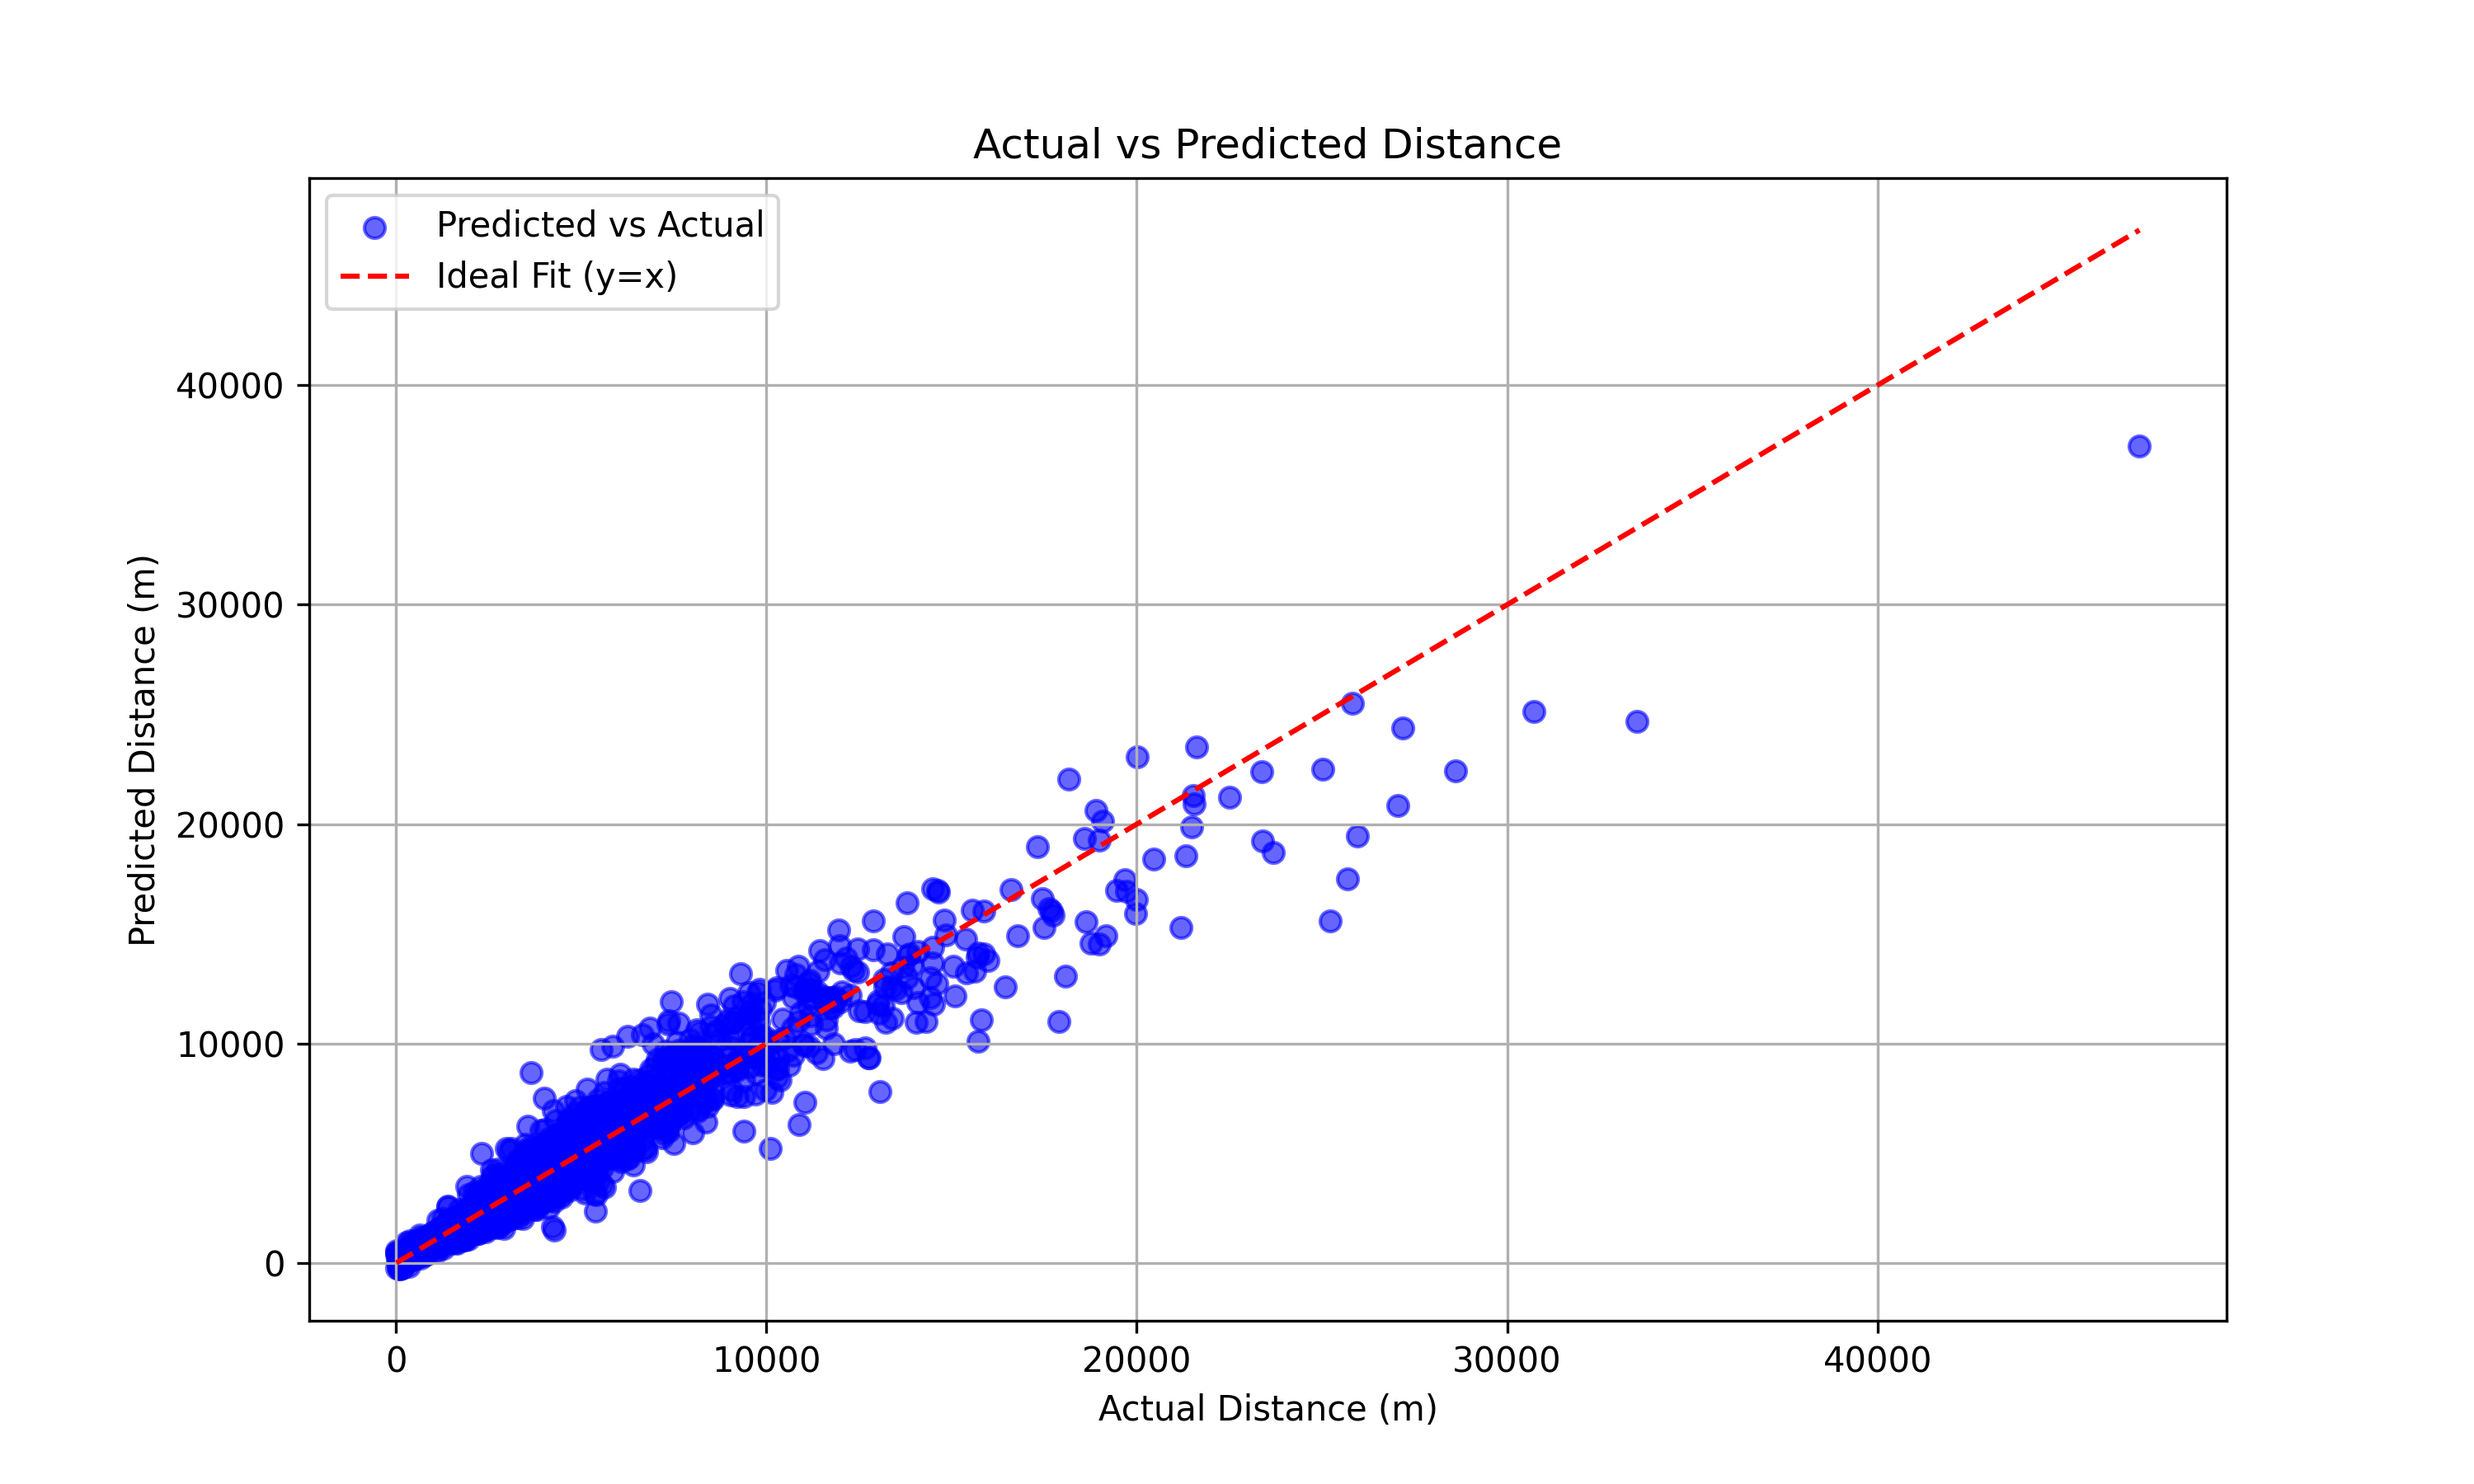
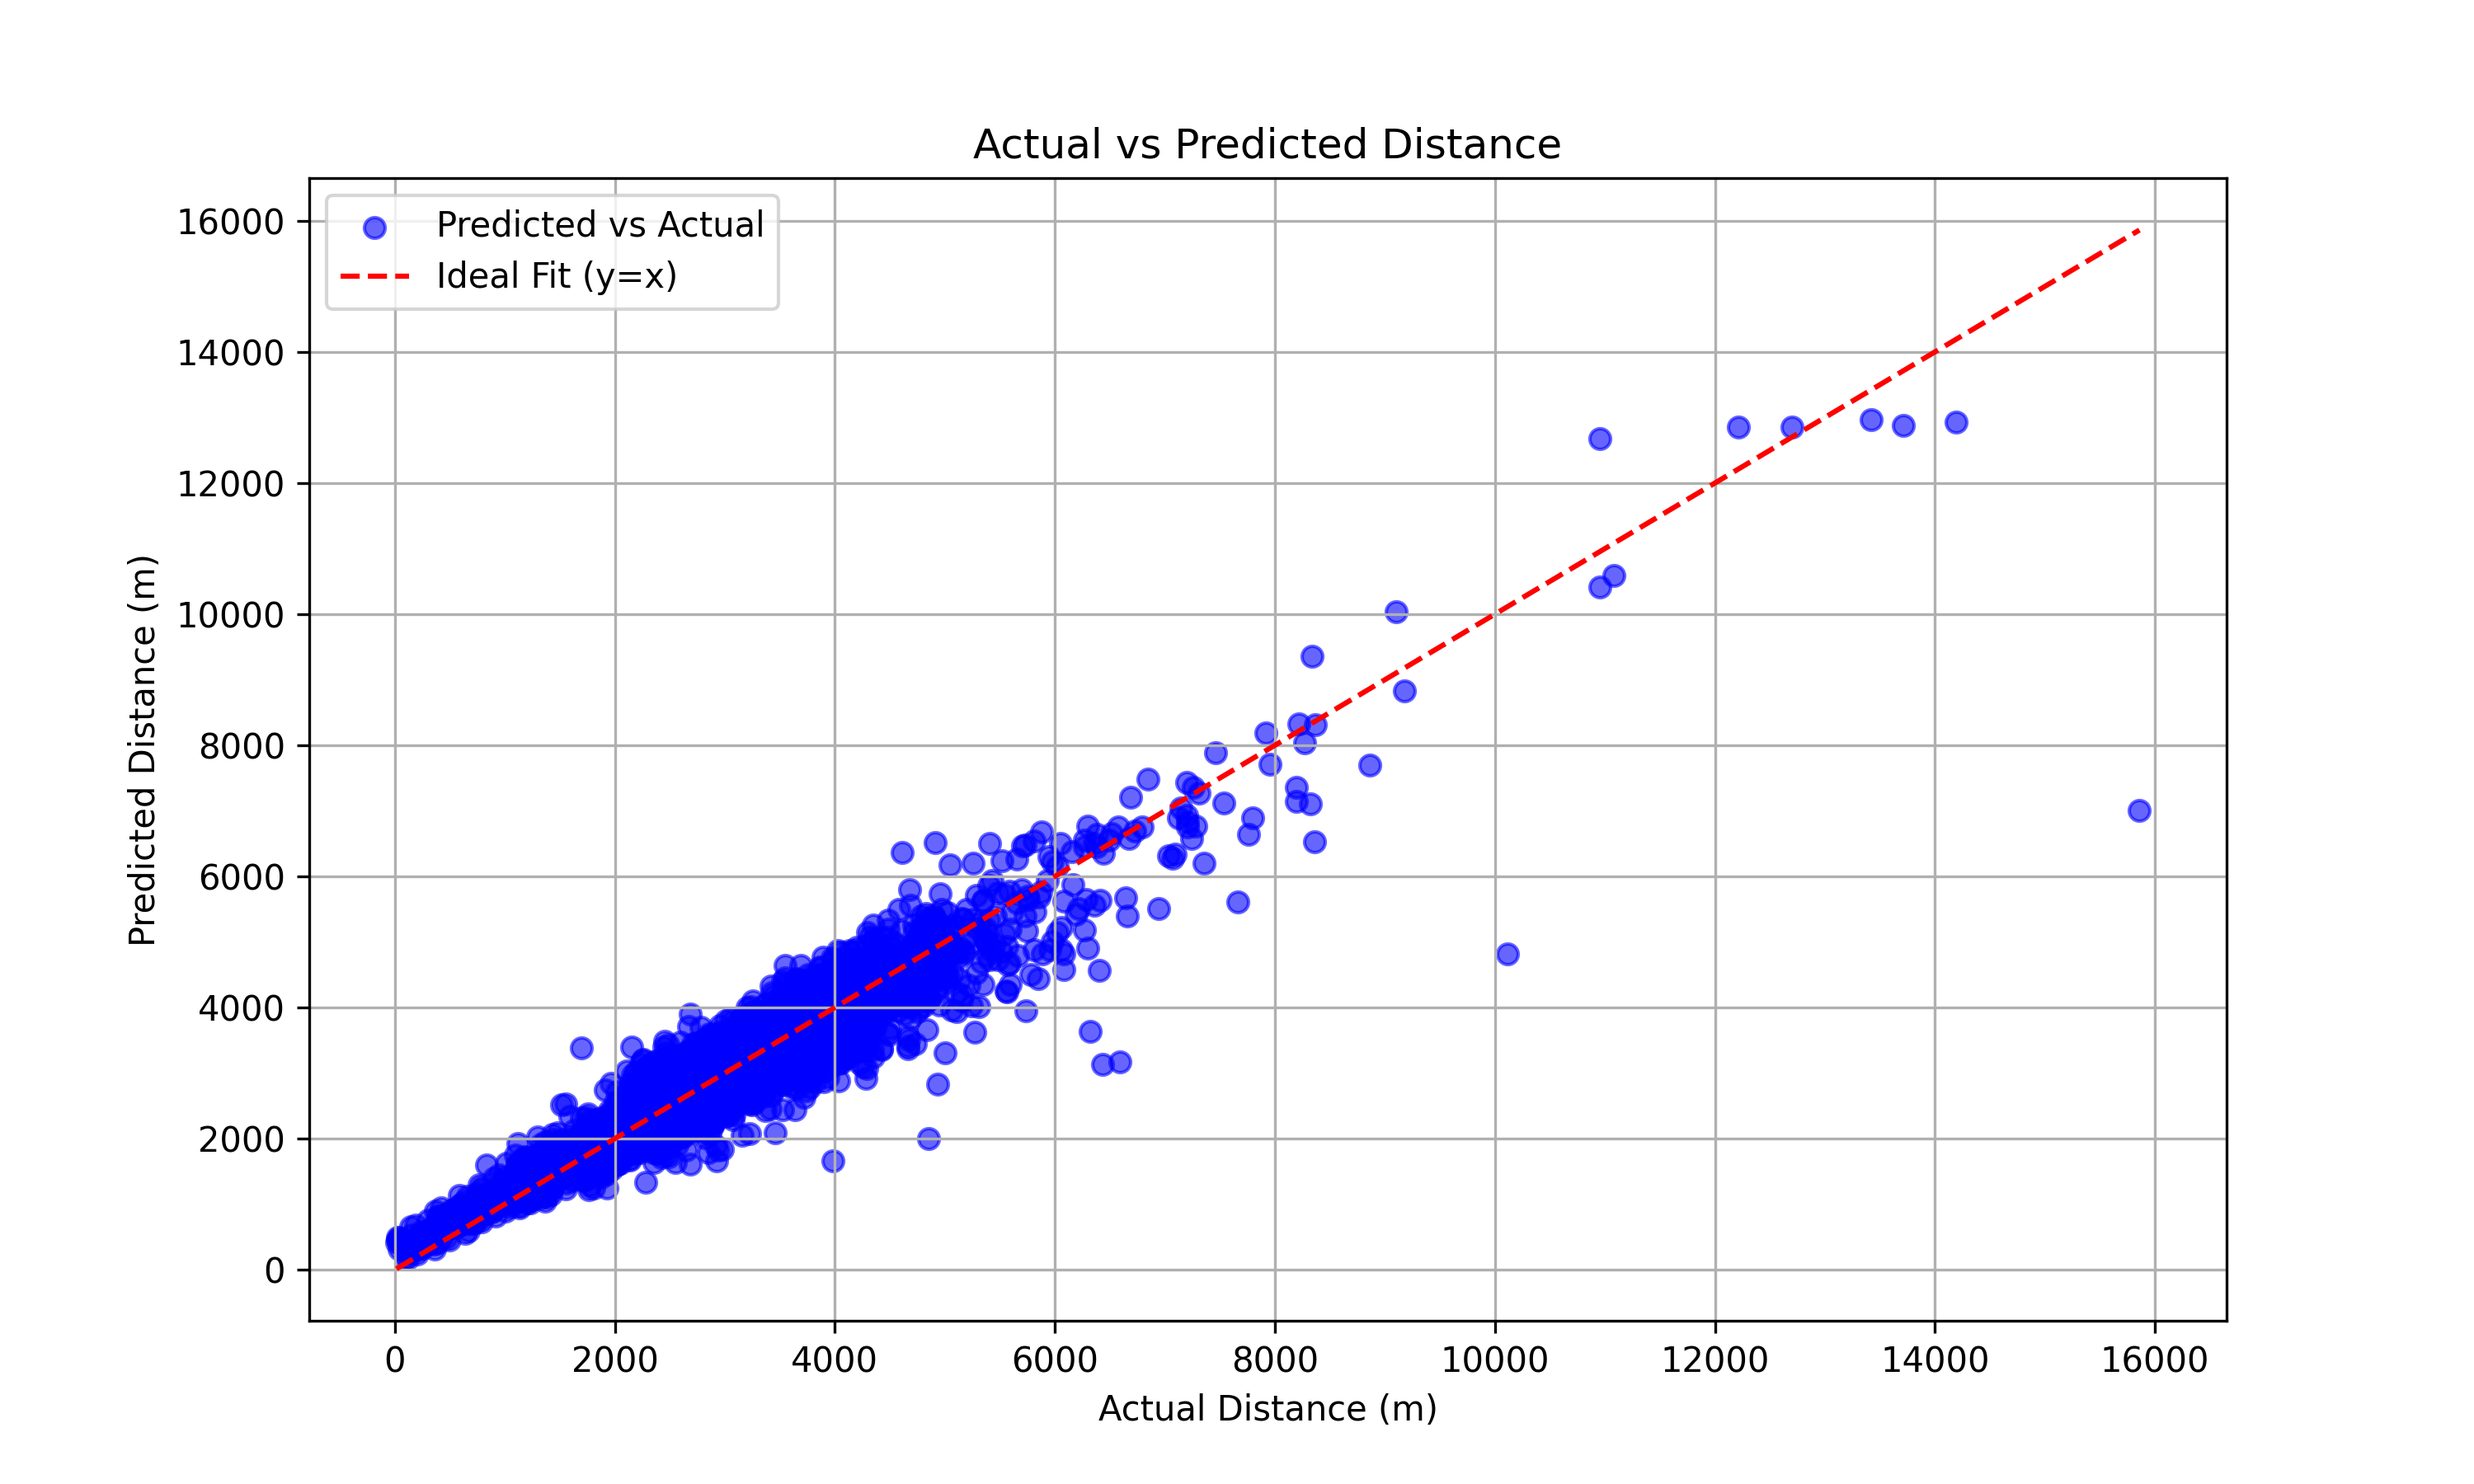
adding kmeans clustering predictor

diff --git a/k_means_cluster_setup.py b/k_means_cluster_setup.py
@@ -1,0 +1,67 @@
+from datahandler import DataLoader, DataPreprocessor
+import pandas as pd
+import numpy as np
+import matplotlib.pyplot as plt
+import seaborn as sns
+from sklearn.cluster import KMeans
+from sklearn.preprocessing import StandardScaler
+from sklearn.model_selection import train_test_split
+from sklearn.ensemble import RandomForestClassifier
+from sklearn.metrics import classification_report
+import joblib
+
+# Load the data (simulating your dataset)
+if __name__ == "__main__":
+    # Load the data
+    data_loader = DataLoader('raw-data-kaggle.csv')
+    strava_data = data_loader.load_data()
+
+    data_preprocessor = DataPreprocessor(strava_data)
+    data_preprocessor.add_pace()
+    data_preprocessor.drop_invalid_rows()
+    processed_data = data_preprocessor.get_preprocessed_data()
+
+    # Select relevant features for clustering
+    features = processed_data[['distance (m)', 'elevation gain (m)', 'pace (min/km)', 'average heart rate (bpm)']]
+
+    # Scale the features
+    scaler = StandardScaler()
+    features_scaled = scaler.fit_transform(features)
+    joblib.dump(scaler, "scaler.pkl")
+    
+
+    # Apply K-Means clustering with 3 clusters
+    kmeans = KMeans(n_clusters=3, random_state=42)
+    processed_data['cluster'] = kmeans.fit_predict(features_scaled)
+
+    # Analyze the cluster centers
+    cluster_centers = scaler.inverse_transform(kmeans.cluster_centers_)
+    cluster_centers_df = pd.DataFrame(cluster_centers, columns=features.columns)
+    print("Cluster Centers (Original Scale):")
+    print(cluster_centers_df)
+
+    # Example output based on real clustering analysis (you should adjust after analyzing)
+    # Cluster 0: low distance, slow pace, low heart rate -> easy
+    # Cluster 1: medium distance, moderate pace, moderate heart rate -> medium
+    # Cluster 2: high distance, faster pace, higher heart rate -> hard
+
+    # Assign labels based on cluster centers analysis
+    # Mapping each cluster to an intensity level: easy, medium, hard
+    cluster_centers_df['intensity'] = ['tempo run', 'long run', 'easy run']  # Adjust these labels based on your analysis
+    processed_data['intensity'] = processed_data['cluster'].map({
+        0: 'tempo run',  # Example mapping (adjust based on actual analysis of your cluster centers)
+        1: 'long run',
+        2: 'easy run'
+    })
+
+    # Visualize the clusters
+    sns.pairplot(processed_data, vars=['distance (m)', 'elapsed time (s)', 'elevation gain (m)', 'average heart rate (bpm)', 'pace (min/km)'], hue='intensity')
+    plt.show()
+
+    # Display the final data with intensity labels
+    print(processed_data[['distance (m)', 'elapsed time (s)', 'elevation gain (m)', 'average heart rate (bpm)', 'pace (min/km)', 'intensity']])
+
+    # Saving K means model
+    joblib.dump(kmeans, "kmeans_model.pkl")
+
+    

diff --git a/kmeans_predictor.py b/kmeans_predictor.py
@@ -1,0 +1,38 @@
+import pandas as pd
+import joblib
+
+# Load the previously saved model
+kmeans = joblib.load('kmeans_model.pkl')
+scaler = joblib.load('scaler.pkl')
+
+# Predict the cluster of a new run
+new_run = {
+    'distance (m)': 2000,            # Distance in meters
+    'elevation gain (m)': 10,        # Elevation gain in meters
+    'pace (min/km)': 6,             # Pace in min/km
+    'average heart rate (bpm)': 150   # Heart rate in bpm
+}
+
+# Convert the new run to a DataFrame
+new_run_df = pd.DataFrame([new_run])
+
+# Select and scale the relevant features for the new run (using the same scaler)
+new_run_features = new_run_df[['distance (m)', 'elevation gain (m)', 'pace (min/km)', 'average heart rate (bpm)']]
+new_run_scaled = scaler.transform(new_run_features)
+
+# Predict the cluster for the new run
+predicted_cluster = kmeans.predict(new_run_scaled)
+
+# Map the predicted cluster to intensity labels (adjust based on actual cluster mapping)
+cluster_label_map = {
+    0: 'tempo run',   # Cluster 0 represents 'tempo run' (adjust as per your cluster analysis)
+    1: 'long run',    # Cluster 1 represents 'long run'
+    2: 'easy run'     # Cluster 2 represents 'easy run'
+}
+
+# Get the intensity label for the new run
+predicted_intensity = cluster_label_map[predicted_cluster[0]]
+
+# Output the result
+print(f"Predicted cluster: {predicted_cluster[0]}")
+print(f"Predicted run intensity: {predicted_intensity}")

diff --git a/mlr_predictor.py b/mlr_predictor.py
@@ -2,9 +2,9 @@ import pandas as pd
 import joblib
 
 # Load the previously saved model
-mlr_loaded = joblib.load('linear_regression_model.pkl')
+mlr_loaded = joblib.load('mlr_model.pkl')
 
 # Make a prediction using a DataFrame
-new_data = pd.DataFrame([[14, 10700, 150]], columns=['elevation gain (m)', 'distance (m)', 'average heart rate (bpm)'])
+new_data = pd.DataFrame([[14, 10700, 140]], columns=['elevation gain (m)', 'distance (m)', 'average heart rate (bpm)'])
 y_pred1 = mlr_loaded.predict(new_data)
 print(f"Predicted Elapsed Time for: {y_pred1[0][0]:.2f} seconds")

diff --git a/mlr_setup.py b/mlr_setup.py
@@ -77,9 +77,6 @@ if __name__ == "__main__":
     # Save the model for later use
     joblib.dump(mlr, 'linear_regression_model.pkl')
 
-    # Load the previously saved model
-    mlr_loaded = joblib.load('linear_regression_model.pkl')
-
    # Make a prediction using a DataFrame
     new_data = pd.DataFrame([[100, 2000, 150]], columns=['elevation gain (m)', 'distance (m)', 'average heart rate (bpm)'])
     y_pred1 = mlr.predict(new_data)

diff --git a/datahandler.py b/datahandler.py
@@ -32,7 +32,7 @@ class DataPreprocessor:
             (self.data['pace (min/km)'] <= 15) & 
             (self.data['average heart rate (bpm)'].notnull()) & 
             (self.data['average heart rate (bpm)'] > 0) &
-            (self.data['elevation gain (m)'] < 11128.0)
+            (self.data['elevation gain (m)'] < 200.0)
         ]
     
     def get_preprocessed_data(self):
